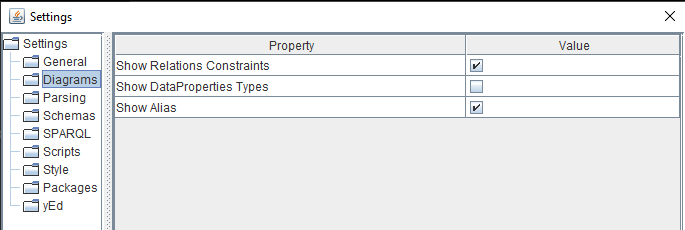
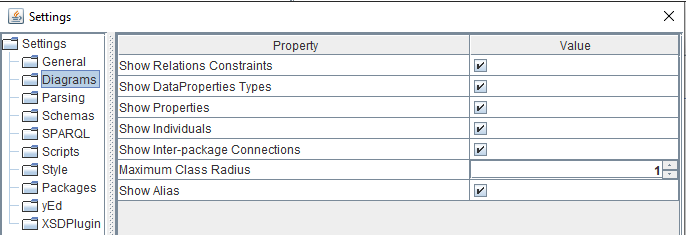
Fix some further cases where a NPE could be thrown when saving as Yed with packages Fix the object properties names not presented in the yEd export Allow to configure the radius of the classes included in the exported graph when exporting only for selected classes

Changed region(s): [[0.0, 0.0, 1.0, 1.0]]

diff --git a/src/core/org/girod/ontobrowser/actions/ExportClassGraphAction.java b/src/core/org/girod/ontobrowser/actions/ExportClassGraphAction.java
@@ -42,7 +42,6 @@ import java.util.List;
 import java.util.Map;
 import java.util.Set;
 import org.girod.jgraphml.model.Arrows;
-import org.girod.jgraphml.model.EdgeLabel;
 import org.girod.jgraphml.model.GraphMLEdge;
 import org.girod.jgraphml.model.GraphMLGroupNode;
 import org.girod.jgraphml.model.GraphMLNode;
@@ -60,17 +59,23 @@ import org.girod.ontobrowser.model.OwlDatatypeProperty;
 import org.girod.ontobrowser.model.OwlIndividual;
 import org.girod.ontobrowser.model.OwlObjectProperty;
 import org.girod.ontobrowser.model.OwlProperty;
+import org.girod.ontobrowser.model.OwlSchema;
 import org.mdi.bootstrap.MDIApplication;
 
 /**
  * The Action that save Classes as yEd diagrams.
  *
- * @version 0.13
+ * @version 0.14
  */
 public class ExportClassGraphAction extends AbstractExportGraphAction {
+   private final OwlSchema schema;
    private final List<OwlClass> selectedClasses;
    private final Set<ElementKey> selectedClassesKeys;
    private boolean showAlias = false;
+   private int maximumRadius = 1;
+   private int effectiveRadius = 0;
+   private boolean addedRadius = false;
+   private Set<ElementKey> newClasses = new HashSet<>();
    private Map<ElementKey, OwlProperty> owlProperties = null;
    private Map<ElementKey, OwlClass> owlClasses = null;
 
@@ -86,6 +91,7 @@ public class ExportClassGraphAction extends AbstractExportGraphAction {
     */
    public ExportClassGraphAction(MDIApplication app, String desc, String longDesc, OwlDiagram diagram, OwlClass theClass, File file) {
       super(app, desc, longDesc, diagram, file);
+      this.schema = diagram.getSchema();
       this.selectedClasses = new ArrayList<>();
       this.selectedClasses.add(theClass);
       this.selectedClassesKeys = new HashSet<>();
@@ -104,6 +110,7 @@ public class ExportClassGraphAction extends AbstractExportGraphAction {
     */
    public ExportClassGraphAction(MDIApplication app, String desc, String longDesc, OwlDiagram diagram, List<OwlClass> theClasses, File file) {
       super(app, desc, longDesc, diagram, file);
+      this.schema = diagram.getSchema();
       this.selectedClasses = theClasses;
       this.selectedClassesKeys = new HashSet<>();
       Iterator<OwlClass> it = theClasses.iterator();
@@ -201,8 +208,7 @@ public class ExportClassGraphAction extends AbstractExportGraphAction {
                      OwlClass rangeClass = owlClasses.get(propKey);
                      IGraphMLNode rangeNode = createClassNode(rangeClass);
                      GraphMLEdge edge = graph.addEdge(rangeNode, theRootNode);
-                     EdgeLabel label = edge.createLabel(true);
-                     label.setLabel(property.getDisplayedName());
+                     addLabelOnEdge(edge, objectProp);
                      Arrows arrows = edge.getArrows();
                      arrows.setSource(Arrows.STANDARD);
                      arrows.setTarget(Arrows.NONE);
@@ -243,8 +249,7 @@ public class ExportClassGraphAction extends AbstractExportGraphAction {
                   OwlClass domainClass = owlClasses.get(propKey);
                   IGraphMLNode domainNode = createClassNode(domainClass);
                   GraphMLEdge edge = graph.addEdge(domainNode, theRootNode);
-                  EdgeLabel label = edge.createLabel(true);
-                  label.setLabel(property.getDisplayedName());
+                  addLabelOnEdge(edge, property);
                   Arrows arrows = edge.getArrows();
                   arrows.setSource(Arrows.NONE);
                   arrows.setTarget(Arrows.STANDARD);
@@ -315,6 +320,20 @@ public class ExportClassGraphAction extends AbstractExportGraphAction {
          OwlClass theClass = it.next();
          exportClass(theClass);
       }
+      boolean executeNewSession = effectiveRadius < maximumRadius && !newClasses.isEmpty();
+      while (executeNewSession) {
+         addedRadius = false;
+         Set<ElementKey> currentNewClasses = new HashSet<>(newClasses);
+         newClasses.clear();
+         Iterator<ElementKey> it2 = currentNewClasses.iterator();
+         while (it2.hasNext()) {
+            ElementKey key = it2.next();
+            OwlClass theClass = schema.getOwlClass(key);
+            exportClass(theClass);
+         }
+         newClasses.addAll(currentNewClasses);
+         executeNewSession = effectiveRadius < maximumRadius && !newClasses.isEmpty();
+      }
    }
 
    private void exportClass(OwlClass theClass) {
@@ -365,8 +384,9 @@ public class ExportClassGraphAction extends AbstractExportGraphAction {
       GraphMLNode theNode;
       if (elementToNode.containsKey(key)) {
          theNode = (GraphMLNode) elementToNode.get(key);
-      } else {
+      } else if (effectiveRadius <= maximumRadius) {
          GraphMLNode theNode1 = graph.addNode();
+         newClasses.add(owlClass.getKey());
          theNode = theNode1;
          elementToNode.put(key, theNode);
          theNode1.getShapeNode().setType(ShapeType.ROUNDRECTANGLE);
@@ -374,6 +394,12 @@ public class ExportClassGraphAction extends AbstractExportGraphAction {
          NodeLabel label = theNode1.createLabel(true);
          label.setFontSize(11);
          label.setLabel(owlClass.getDisplayedName());
+         if (!addedRadius) {
+            addedRadius = true;
+            effectiveRadius++;
+         }
+      } else {
+         theNode = null;
       }
       return theNode;
    }
@@ -399,7 +425,9 @@ public class ExportClassGraphAction extends AbstractExportGraphAction {
    @Override
    protected void configure() {
       super.configure();
-      this.showAlias = BrowserConfiguration.getInstance().showAlias;
+      BrowserConfiguration conf = BrowserConfiguration.getInstance();
+      this.showAlias = conf.showAlias;
+      this.maximumRadius = conf.maximumRadius;
    }
 
    /**

diff --git a/src/core/org/girod/ontobrowser/actions/ExportGraphAction.java b/src/core/org/girod/ontobrowser/actions/ExportGraphAction.java
@@ -63,7 +63,7 @@ import org.mdi.bootstrap.MDIApplication;
 /**
  * The Action that save schemas as yEd diagrams.
  *
- * @version 0.13
+ * @version 0.14
  */
 public class ExportGraphAction extends AbstractExportGraphAction {
    private boolean showPackages = false;
@@ -135,7 +135,11 @@ public class ExportGraphAction extends AbstractExportGraphAction {
       if (owlClass.isPackageOrInPackage()) {
          ElementKey packageKey = owlClass.getPackage(false);
          GraphMLGroupNode groupNode = packagesNodes.get(packageKey);
-         inode = groupNode.addNode();
+         if (groupNode == null) {
+            inode = graph.addNode();
+         } else {
+            inode = groupNode.addNode();
+         }
       } else {
          inode = graph.addNode();
       }
@@ -263,6 +267,7 @@ public class ExportGraphAction extends AbstractExportGraphAction {
                               if (acceptConnection == ACCEPT_CONNECTION) {
                                  IGraphMLNode rangeNode = elementToNode.get(propKey);
                                  GraphMLEdge edge = graph.addEdge(rangeNode, theNode);
+                                 addLabelOnEdge(edge, objectProp);
                                  Arrows arrows = edge.getArrows();
                                  arrows.setSource(Arrows.NONE);
                                  arrows.setTarget(Arrows.NONE);
@@ -273,6 +278,7 @@ public class ExportGraphAction extends AbstractExportGraphAction {
                                  IGraphMLNode pack1Node = elementToNode.get(pack1.getKey());
                                  IGraphMLNode pack2Node = elementToNode.get(pack2.getKey());
                                  GraphMLEdge edge = graph.addEdge(pack1Node, pack2Node);
+                                 addLabelOnEdge(edge, objectProp);
                                  Arrows arrows = edge.getArrows();
                                  arrows.setSource(Arrows.NONE);
                                  arrows.setTarget(Arrows.NONE);
@@ -281,11 +287,7 @@ public class ExportGraphAction extends AbstractExportGraphAction {
                         } else {
                            IGraphMLNode rangeNode = elementToNode.get(propKey);
                            GraphMLEdge edge = graph.addEdge(rangeNode, theNode);
-                           EdgeLabel label = edge.createLabel(true);
-                           EdgeLabel.ParamModel model = label.getParameterModel();
-                           model.setAutoFlip(true);
-                           model.setAutoRotate(true);
-                           label.setLabel(property.getDisplayedName());
+                           addLabelOnEdge(edge, objectProp);
                            Arrows arrows = edge.getArrows();
                            arrows.setSource(Arrows.STANDARD);
                            arrows.setTarget(Arrows.NONE);

diff --git a/src/core/org/girod/ontobrowser/BrowserSettings.java b/src/core/org/girod/ontobrowser/BrowserSettings.java
@@ -55,7 +55,7 @@ import org.girod.ontobrowser.parsers.graph.LayoutOptions;
 /**
  * This class encapsulates the settings.
  *
- * @version 0.13
+ * @version 0.14
  */
 public class BrowserSettings {
    private static BrowserSettings settings = null;
@@ -93,6 +93,8 @@ public class BrowserSettings {
    private JCheckBox showPropertiesCb;
    private JCheckBox showIndividualsCb;
    private JCheckBox showInterPackageConnectionsCb;
+   private final SpinnerNumberModel maximumRadiusSpinnerModel = new SpinnerNumberModel(1, 1, 10, 1);
+   private JSpinner maximumRadiusSpinner;   
    // Packages
    private JCheckBox showPackagesCb;
    private JCheckBox acceptSubPackagesCb;
@@ -244,6 +246,7 @@ public class BrowserSettings {
       showPropertiesCb.setSelected(conf.showProperties);
       showIndividualsCb.setSelected(conf.showIndividuals);
       showInterPackageConnectionsCb.setSelected(conf.showInterPackageConnections);
+      maximumRadiusSpinner.setValue(conf.maximumRadius);
 
       // parsing
       includeIndividualsCb.setSelected(conf.includeIndividuals);
@@ -535,6 +538,22 @@ public class BrowserSettings {
       showInterPackageConnectionsCb.addActionListener((ActionEvent e) -> {
          conf.showInterPackageConnections = showInterPackageConnectionsCb.isSelected();
       });
+      
+      maximumRadiusSpinner = new JSpinner(maximumRadiusSpinnerModel);
+      maximumRadiusSpinner.setEditor(new JSpinner.NumberEditor(maximumRadiusSpinner, "##"));
+      maximumRadiusSpinner.setMaximumSize(maximumRadiusSpinner.getPreferredSize());
+      maximumRadiusSpinner.addChangeListener((ChangeEvent e) -> {
+         try {
+            int value = ((Integer) ((JSpinner) e.getSource()).getValue());
+            if (value < 1) {
+               value = 1;
+            } else if (value > 10) {
+               value = 10;
+            }
+            conf.maximumRadius = value;
+         } catch (ArithmeticException ex) {
+         }
+      });      
    }
 
    /**
@@ -774,6 +793,7 @@ public class BrowserSettings {
       diagramsSettings.addProperty(showPropertiesCb, "", "Show Properties");
       diagramsSettings.addProperty(showIndividualsCb, "", "Show Individuals");
       diagramsSettings.addProperty(showInterPackageConnectionsCb, "", "Show Inter-package Connections");
+      diagramsSettings.addProperty(maximumRadiusSpinner, "", "Maximum Class Radius");
       diagramsSettings.addProperty(showAliasCb, "", "Show Alias");
       diagramsSettings.setVisible(true);
 

diff --git a/src/core/org/girod/ontobrowser/actions/AbstractExportGraphAction.java b/src/core/org/girod/ontobrowser/actions/AbstractExportGraphAction.java
@@ -59,6 +59,7 @@ import org.girod.ontobrowser.model.ElementKey;
 import org.girod.ontobrowser.model.OwlClass;
 import org.girod.ontobrowser.model.OwlDatatype;
 import org.girod.ontobrowser.model.OwlDatatypeProperty;
+import org.girod.ontobrowser.model.OwlObjectProperty;
 import org.girod.ontobrowser.model.OwlProperty;
 import org.girod.ontobrowser.model.OwlSchema;
 import org.girod.ontobrowser.parsers.graph.NodeSorter;
@@ -69,7 +70,7 @@ import org.girod.ontobrowser.parsers.graph.LayoutOptions;
 /**
  * An abstract class which exports a doiagram as a GraphML graoh.
  *
- * @version 0.13
+ * @version 0.14
  */
 public abstract class AbstractExportGraphAction extends AbstractMDIAction {
    protected static final String DEFAULT_NS = "http://www.w3.org/2001/XMLSchema#";
@@ -178,7 +179,7 @@ public abstract class AbstractExportGraphAction extends AbstractMDIAction {
       OwlClass class2 = schema.getOwlClass(key2);
       return acceptConnection(class1, class2);
    }
-   
+
    protected boolean acceptSuperClassConnection(OwlClass class1, OwlClass class2) {
       if (showInterPackageConnections) {
          return true;
@@ -190,7 +191,7 @@ public abstract class AbstractExportGraphAction extends AbstractMDIAction {
             return true;
          } else {
             return false;
-         }        
+         }
       } else {
          return true;
       }
@@ -386,6 +387,20 @@ public abstract class AbstractExportGraphAction extends AbstractMDIAction {
       } else {
          return null;
       }
+   }
+
+   /**
+    * Add a label on an object property
+    *
+    * @param edge the edge
+    * @param property the object property
+    */
+   protected void addLabelOnEdge(GraphMLEdge edge, OwlObjectProperty property) {
+      EdgeLabel label = edge.createLabel(true);
+      EdgeLabel.ParamModel model = label.getParameterModel();
+      model.setAutoFlip(true);
+      model.setAutoRotate(true);
+      label.setLabel(property.getDisplayedName());
    }
 
    @Override

diff --git a/src/core/org/girod/ontobrowser/BrowserConfiguration.java b/src/core/org/girod/ontobrowser/BrowserConfiguration.java
@@ -56,7 +56,7 @@ import org.girod.ontobrowser.parsers.graph.LayoutOptions;
 /**
  * The browser configuration.
  *
- * @version 0.13
+ * @version 0.14
  */
 public class BrowserConfiguration implements Configuration {
    private static BrowserConfiguration conf = null;
@@ -98,6 +98,7 @@ public class BrowserConfiguration implements Configuration {
    public boolean showProperties = true;
    public boolean showIndividuals = true;
    public boolean showInterPackageConnections = true;
+   public int maximumRadius = 1;
    public short layoutOptions = LayoutOptions.ANY_POSITION;
    /*
     * Parsing configuration
@@ -495,6 +496,7 @@ public class BrowserConfiguration implements Configuration {
       p.putBoolean("showIndividuals", showIndividuals); 
       p.putBoolean("showInterPackageConnections", showInterPackageConnections); 
       p.putBoolean("showAlias", showAlias);
+      p.putInt("maximumRadius", maximumRadius);
       p.putInt("superClassPosition", (int)layoutOptions);
 
       // parsing
@@ -557,6 +559,7 @@ public class BrowserConfiguration implements Configuration {
       showDataPropertiesTypes = p.getBoolean("showDataPropertiesTypes", showDataPropertiesTypes);
       showProperties = p.getBoolean("showProperties", showProperties);
       showIndividuals = p.getBoolean("showIndividuals", showIndividuals);
+      maximumRadius = p.getInt("maximumRadius", maximumRadius);
       showInterPackageConnections = p.getBoolean("showInterPackageConnections", showInterPackageConnections);
       layoutOptions = (short)p.getInt("superClassPosition", layoutOptions);
 
